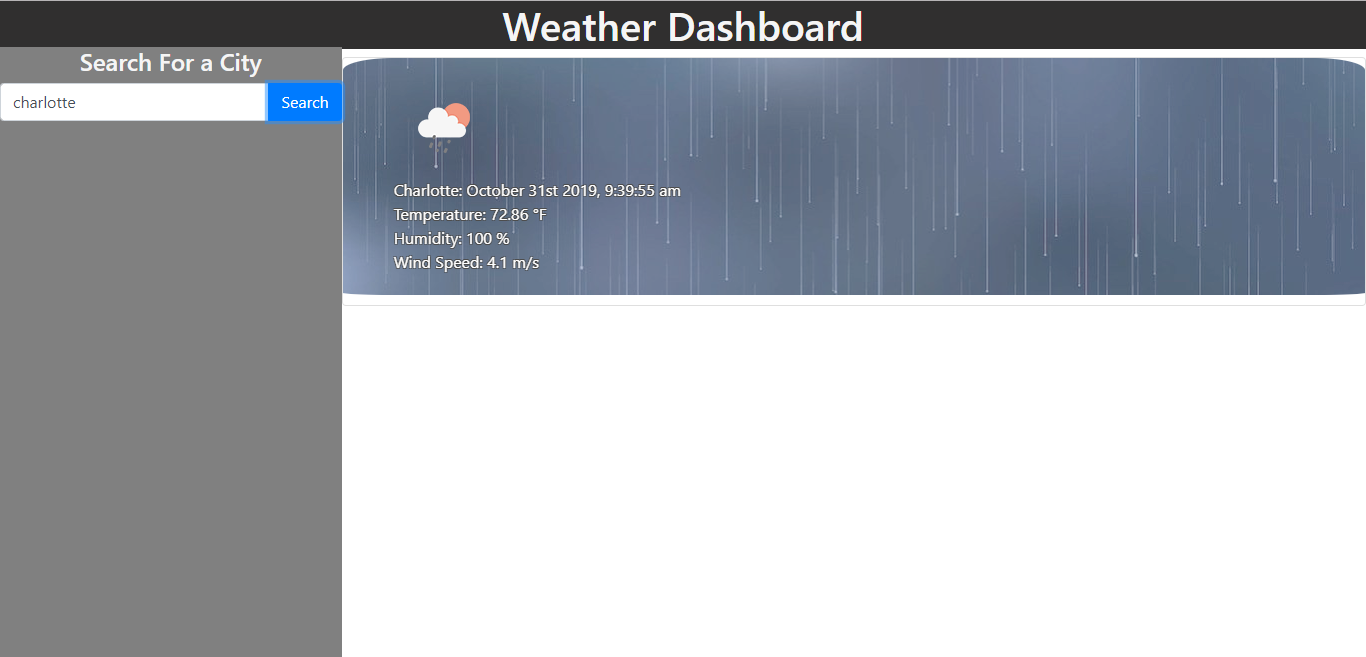
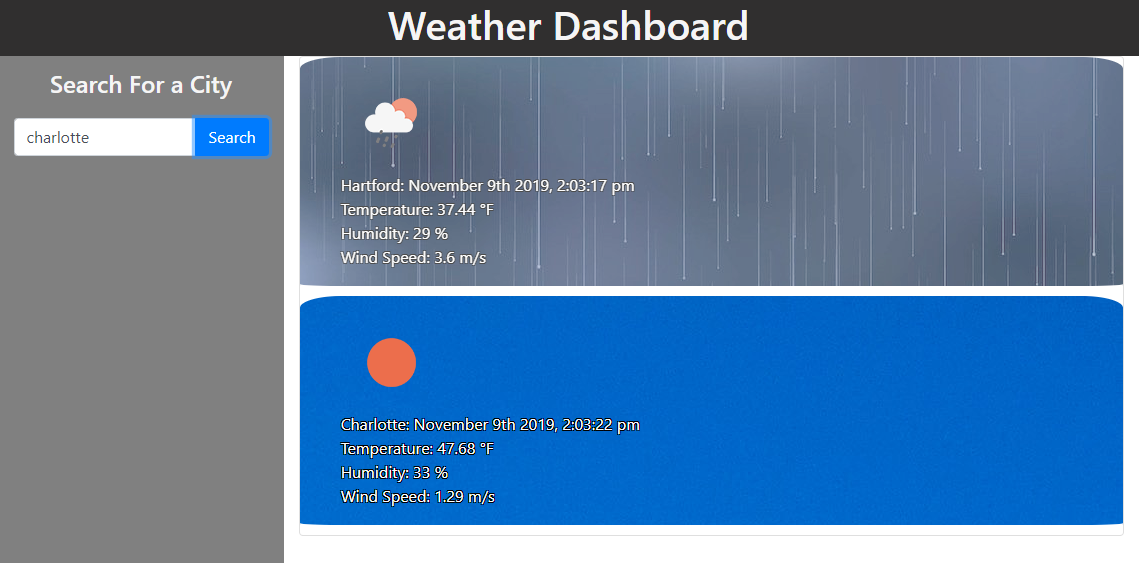
finished styling and updated README

diff --git a/index.html b/index.html
@@ -18,7 +18,7 @@
             <h1>Weather Dashboard</h1>
         </div>
         <div class="row">
-            <div class="col-3">
+            <div class="col-3 sideBar">
                 <h4>Search For a City</h4>
                 <div class="input-group mb-3">
                     <input type="text" class="form-control" placeholder="Search City" aria-label="City Search"
@@ -36,37 +36,6 @@
             </div>
         </div>
     </div>
-    <!-- <header>
-        <h1>Weather Dashboard</h1>
-    </header> -->
-    <!--End of header-->
-    <!--Start of main section-->
-    <main>
-        <!-- <aside>
-            <div class="conatainer">
-                <div class="row">
-                    <div class="col">
-                        <h4>Search For a City</h4>
-                        <div class="input-group mb-3">
-                            <input type="text" class="form-control" placeholder="Search City" aria-label="City Search"
-                                aria-describedby="button-addon2">
-                            <div class="input-group-append">
-                                <button type="button" class="btn btn-primary">Search</button>
-                            </div>
-                        </div>
-                    </div>
-                </div>
-            </div>
-        </aside> -->
-        <!-- <section>
-            <div class="card">
-            </div>
-        </section> -->
-    </main>
-
-
-
-
     <script src="./assets/moment.js"></script>
     <script src="https://code.jquery.com/jquery-3.4.1.min.js"
         integrity="sha256-CSXorXvZcTkaix6Yvo6HppcZGetbYMGWSFlBw8HfCJo=" crossorigin="anonymous"></script>

diff --git a/assets/style.css b/assets/style.css
@@ -1,16 +1,20 @@
 *{
     box-sizing: border-box;
 }
-body{
-    width: 100%;
-}
 .header{
     text-align: center;
     color: whitesmoke;
     background: rgb(48, 47, 47);
 }
-
+h1{
+    width: 100vw;
+}
+.sideBar{
+    min-width: 150px;
+    height: 100vh;
+}
 h4{
+    padding: 5%;
     text-align: center;
     color: whitesmoke;
 }

diff --git a/README.md b/README.md
@@ -18,5 +18,5 @@ This is the starting screen presented to the user with no weather data entered:
 ![screen1](./assets\images\startingUI.PNG)
 
 
-This shows the application with the weather information displayed for the city of Charlotte:
+This shows the application with the weather information displayed for multiple cities:
 ![screen2](./assets\images\UIwithcityInfo.PNG)
